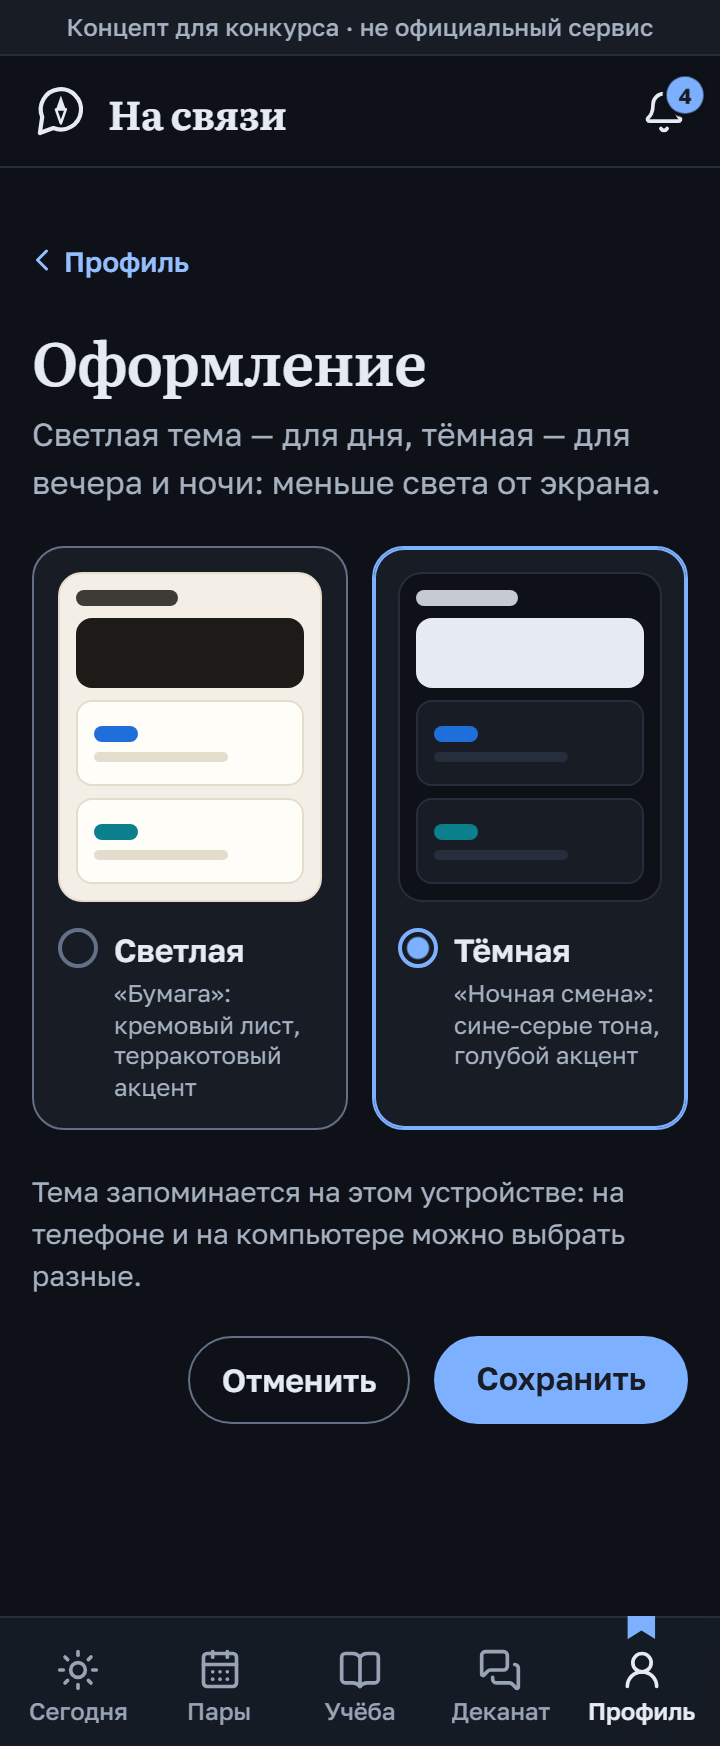
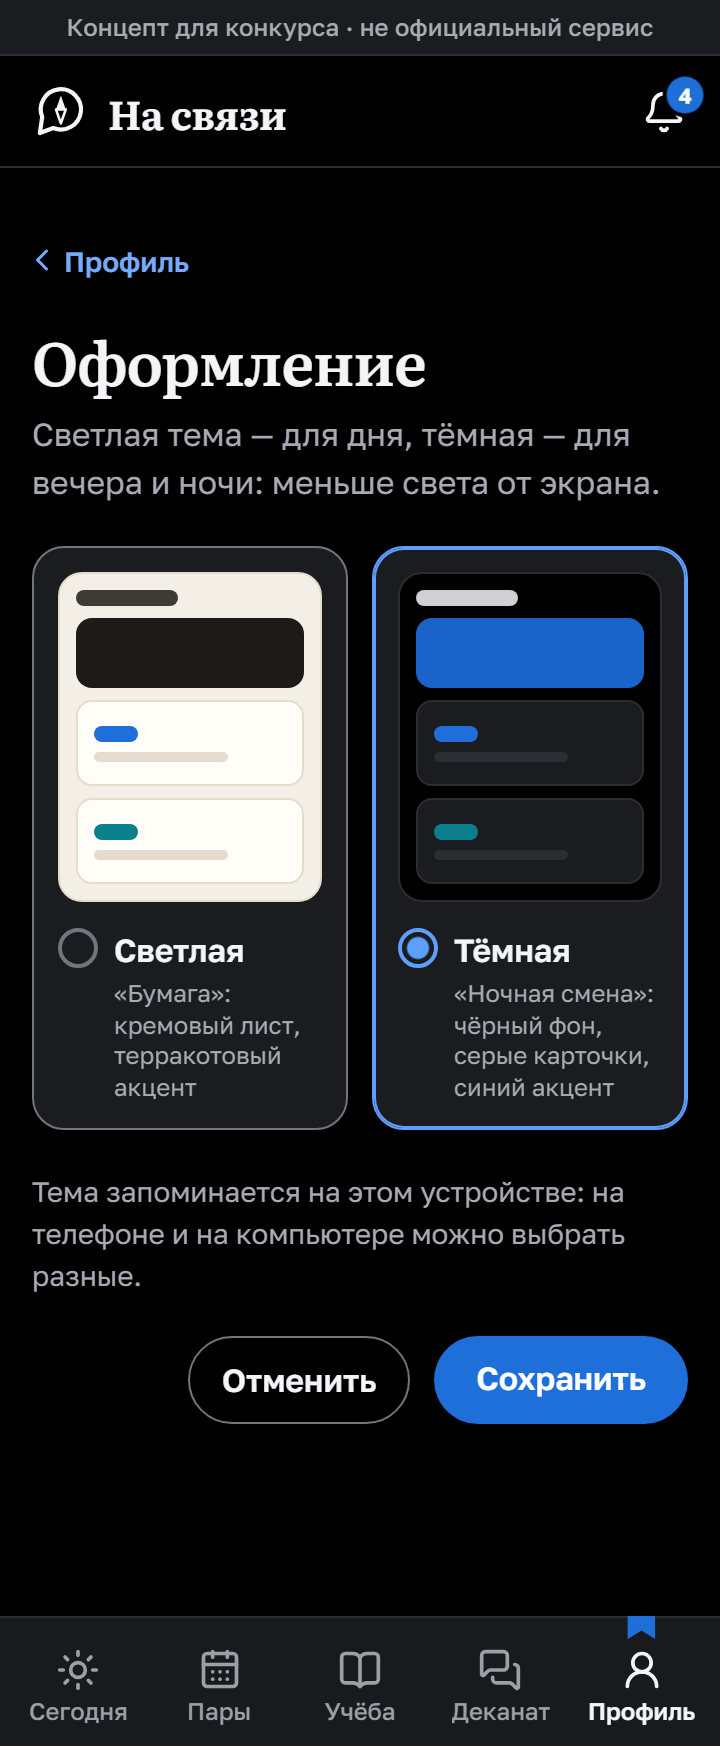
feat(theme): тёмная тема по примеру — чёрный фон, серые карточки, синие заливки; токены --plate и --accent-fill

diff --git a/src/ui/tokens.css b/src/ui/tokens.css
@@ -16,9 +16,18 @@
   /* Производные. --muted и --accent на --bg дают 4,18 и 4,29:1 — для текста на фоне страницы есть усиленные. */
   --muted-strong: #6B6358;   /* вторичный текст на --bg */
   --accent-strong: #9E4824;  /* ссылки и акцентный текст на --bg, текст бейджа «В работе» */
-  --ink-muted: #B8AE9F;      /* вторичный текст на --ink */
+  --ink-muted: #B8AE9F;      /* вторичный текст на плашке */
   --line-strong: #8C8172;    /* границы полей ввода: ≥ 3:1 к --bg и --paper */
   --focus: #2E5272;          /* кольцо фокуса — синие чернила */
+
+  /* Заливки. В светлой теме совпадают с чернилами и терракотой (tests/ui/contrast.test.ts это проверяет),
+     в тёмной — насыщенный синий с белым текстом. Отдельные имена нужны потому, что в тёмной теме
+     «чернила» светлые: плашка цвета --ink была бы белым пятном на чёрном. */
+  --plate: #1D1B17;          /* «важная» плашка, выбранный день, тост (= --ink) */
+  --on-plate: #FFFDF8;       /* текст на плашке (= --paper) */
+  --accent-fill: #B4552D;    /* заливка акцентом: основная кнопка, счётчик, закладка (= --accent) */
+  --on-accent: #FFFDF8;      /* текст на заливке акцентом (= --paper) */
+  --on-accent-2: #1D1B17;    /* текст кнопки на плашке (= --ink) */
 
   /* Статусы: приглушённые, в тёплой гамме; текст статуса читается и на своей подложке, и на --paper */
   --ok: #3D6B35;
@@ -114,8 +123,8 @@
   --fg-muted: var(--muted-strong);
   --fg-accent: var(--accent-strong);
   --ring: var(--focus);
-  --btn-bg: var(--accent);
-  --btn-fg: var(--paper);
+  --btn-bg: var(--accent-fill);
+  --btn-fg: var(--on-accent);
   --btn-border: var(--line-strong);
 }
 
@@ -131,70 +140,76 @@
   --fg-muted: var(--muted);
   --fg-accent: var(--accent);
   --ring: var(--focus);
-  --btn-bg: var(--accent);
-  --btn-fg: var(--paper);
+  --btn-bg: var(--accent-fill);
+  --btn-fg: var(--on-accent);
   --btn-border: var(--line-strong);
 }
 
 [data-surface="ink"] {
-  --surface: var(--ink);
-  --fg: var(--paper);
+  --surface: var(--plate);
+  --fg: var(--on-plate);
   --fg-muted: var(--ink-muted);
   --fg-accent: var(--accent-2);
   --ring: var(--accent-2);
   --btn-bg: var(--accent-2);
-  --btn-fg: var(--ink);
+  --btn-fg: var(--on-accent-2);
   --btn-border: rgba(255, 253, 248, 0.4);
 }
 
 /*
- * Тёмная тема «Ночная смена»: сине-серые поверхности, голубой акцент.
- * Имена токенов те же, значения — зеркальные по роли: --ink здесь светлый (текст и «важные» плашки),
- * --paper и --bg — тёмные. Поэтому компоненты не знают о теме, а tests/ui/contrast.test.ts
+ * Тёмная тема «Ночная смена»: чёрный фон, нейтрально-серые карточки, насыщенный синий как единственный цвет.
+ * Имена токенов те же: --ink здесь светлый (текст), --paper и --bg — тёмные, а всё, что залито цветом,
+ * берёт --plate и --accent-fill. Поэтому компоненты не знают о теме, а tests/ui/contrast.test.ts
  * проверяет те же пары «текст/фон» на этой палитре.
  * Включается атрибутом data-theme="dark" на <html> (src/app/layout.tsx читает его из cookie).
  */
 [data-theme="dark"] {
   color-scheme: dark;
 
-  --bg: #0E1218;        /* фон страницы */
-  --paper: #171C25;     /* карточки, панели навигации */
-  --line: #262E3B;      /* тонкие границы */
-  --ink: #E6EBF2;       /* основной текст; «важные» плашки — светлые на тёмном */
-  --muted: #98A4B5;     /* вторичный текст в карточке */
-  --accent: #7DB1FF;    /* голубой: ссылки в карточке, основная кнопка */
-  --accent-2: #1F5FBF;  /* синий: акцент на светлой плашке */
+  --bg: #000000;        /* фон страницы — чёрный */
+  --paper: #1B1C1F;     /* карточки, панели навигации */
+  --line: #2B2D32;      /* тонкие границы */
+  --ink: #F4F5F7;       /* основной текст */
+  --muted: #9C9FA8;     /* вторичный текст в карточке */
+  --accent: #5E9EFF;    /* синий для текста и контуров: ссылки, рамка выбранного */
+  --accent-2: #FFFFFF;  /* акцент на синей плашке: белый */
 
-  --muted-strong: #A6B1C2;
-  --accent-strong: #93BEFF;
-  --ink-muted: #4E596B;      /* вторичный текст на светлой плашке */
-  --line-strong: #647087;
-  --focus: #8AB8FF;
+  --muted-strong: #A8ABB4;
+  --accent-strong: #74ABFF;
+  --ink-muted: #DCE8FC;      /* вторичный текст на синей плашке */
+  --line-strong: #71757E;
+  --focus: #7FB2FF;
 
-  --ok: #7FD6A0;
-  --ok-tint: #15301F;
+  --plate: #1A63C8;          /* «важная» плашка, выбранный день, тост */
+  --on-plate: #FFFFFF;
+  --accent-fill: #1E6FD9;    /* основная кнопка, счётчик, закладка, полоса прогресса */
+  --on-accent: #FFFFFF;
+  --on-accent-2: #124A9C;    /* синий текст белой кнопки на плашке */
+
+  --ok: #6FD08F;
+  --ok-tint: #12301D;
   --warn: #F0C36A;
   --warn-tint: #33280F;
-  --danger: #FF9A8E;
-  --danger-tint: #3A1A17;
-  --info: #8FC1FF;
-  --info-tint: #142A45;
-  --accent-tint: #172B4A;
-  --neutral-tint: #212836;
+  --danger: #FF8F85;
+  --danger-tint: #3A1715;
+  --info: #7DB4FF;
+  --info-tint: #0F2742;
+  --accent-tint: #132C50;
+  --neutral-tint: #2A2C31;
 
-  /* Плашки типов те же; точки светлее, чтобы читались на тёмном листке дня, и темнее — на выбранном (светлом) */
-  --dot-lecture: #6AA8FF;
-  --dot-practice: #4FCBD6;
+  /* Плашки типов те же; точки светлее, чтобы читались на тёмном листке дня; на выбранном (синем) — почти белые */
+  --dot-lecture: #4C93FF;
+  --dot-practice: #35C3CF;
   --dot-lab: #E3B565;
-  --dot-lecture-inv: #1E6FD9;
-  --dot-practice-inv: #0B7F8C;
-  --dot-lab-inv: #85570A;
+  --dot-lecture-inv: #D7E6FF;
+  --dot-practice-inv: #7FE7EE;
+  --dot-lab-inv: #FFD27A;
 
-  --shadow-sheet: 0 1px 0 rgba(0, 0, 0, 0.25);
-  --shadow-float: 0 18px 40px -16px rgba(0, 0, 0, 0.7), 0 2px 6px rgba(0, 0, 0, 0.4);
+  --shadow-sheet: none;
+  --shadow-float: 0 18px 40px -16px rgba(0, 0, 0, 0.8), 0 2px 6px rgba(0, 0, 0, 0.5);
 }
 
-/* «Важная» плашка в тёмной теме светлая — рамка второстепенной кнопки на ней тёмная, а не светлая */
+/* Рамка второстепенной кнопки на синей плашке — белая полупрозрачная */
 [data-theme="dark"] [data-surface="ink"] {
-  --btn-border: rgba(14, 18, 24, 0.4);
+  --btn-border: rgba(255, 255, 255, 0.5);
 }

diff --git a/tests/ui/contrast.test.ts b/tests/ui/contrast.test.ts
@@ -44,15 +44,18 @@ const PAIRS: Pair[] = [
   ["muted", "paper", TEXT, "вторичный текст в карточке, подписи нижней навигации"],
   ["muted-strong", "bg", TEXT, "вторичный текст на фоне страницы (дата, подзаголовок)"],
   ["muted-strong", "paper", TEXT, "вторичный текст в карточке (запасной)"],
-  ["paper", "ink", TEXT, "текст в тёмной карточке «важное», тост"],
+  ["paper", "ink", TEXT, "ссылка «к содержимому», номер пройденного шага"],
   ["bg", "ink", TEXT, "пометка «Концепт для конкурса»"],
-  ["ink-muted", "ink", TEXT, "вторичный текст в тёмной карточке"],
+  ["on-plate", "plate", TEXT, "текст в «важной» плашке, тост, выбранный день"],
+  ["ink-muted", "plate", TEXT, "вторичный текст в «важной» плашке"],
   ["accent", "paper", TEXT, "надзаголовок и ссылка в карточке"],
   ["accent-strong", "bg", TEXT, "ссылка на фоне страницы"],
   ["accent-strong", "paper", TEXT, "ссылка в карточке (запасной)"],
-  ["paper", "accent", TEXT, "основная кнопка, счётчик на колокольчике"],
-  ["accent-2", "ink", TEXT, "надзаголовок и ссылка в тёмной карточке"],
-  ["ink", "accent-2", TEXT, "основная кнопка в тёмной карточке"],
+  ["on-accent", "accent-fill", TEXT, "основная кнопка, счётчик на колокольчике"],
+  ["accent-fill", "paper", NON_TEXT, "заливка без текста в карточке: полоса прогресса, закладка раздела"],
+  ["accent-fill", "bg", NON_TEXT, "заливка без текста на фоне страницы"],
+  ["accent-2", "plate", TEXT, "надзаголовок и ссылка в «важной» плашке"],
+  ["on-accent-2", "accent-2", TEXT, "основная кнопка в «важной» плашке"],
   ["ok", "ok-tint", TEXT, "бейдж «Готово»"],
   ["warn", "warn-tint", TEXT, "бейдж «Нужно уточнение»"],
   ["danger", "danger-tint", TEXT, "бейдж «Отклонено»"],
@@ -70,13 +73,13 @@ const PAIRS: Pair[] = [
   ["dot-lecture", "paper", NON_TEXT, "точка лекции под днём недели"],
   ["dot-practice", "paper", NON_TEXT, "точка практики под днём недели"],
   ["dot-lab", "paper", NON_TEXT, "точка лабораторной под днём недели"],
-  ["dot-lecture-inv", "ink", NON_TEXT, "точка лекции на выбранном дне"],
-  ["dot-practice-inv", "ink", NON_TEXT, "точка практики на выбранном дне"],
-  ["dot-lab-inv", "ink", NON_TEXT, "точка лабораторной на выбранном дне"],
+  ["dot-lecture-inv", "plate", NON_TEXT, "точка лекции на выбранном дне"],
+  ["dot-practice-inv", "plate", NON_TEXT, "точка практики на выбранном дне"],
+  ["dot-lab-inv", "plate", NON_TEXT, "точка лабораторной на выбранном дне"],
   ["muted-strong", "paper", TEXT, "номер пары и подсказки на подкрашенной подложке"],
   ["focus", "bg", NON_TEXT, "кольцо фокуса на фоне страницы"],
   ["focus", "paper", NON_TEXT, "кольцо фокуса в карточке"],
-  ["accent-2", "ink", NON_TEXT, "кольцо фокуса в тёмной карточке"],
+  ["accent-2", "plate", NON_TEXT, "кольцо фокуса в «важной» плашке"],
   ["line-strong", "paper", NON_TEXT, "граница поля ввода в карточке"],
   ["line-strong", "bg", NON_TEXT, "граница поля ввода на фоне страницы"],
 ];
@@ -87,6 +90,14 @@ describe("палитра «Бумага»", () => {
       bg: "#F4EFE6", paper: "#FFFDF8", line: "#E4DCCD", ink: "#1D1B17",
       muted: "#7A7166", accent: "#B4552D", "accent-2": "#E2774A",
     });
+  });
+
+  it("в светлой теме заливки — те же чернила и терракота, что были до появления тёмной", () => {
+    expect(t.plate).toBe(t.ink);
+    expect(t["on-plate"]).toBe(t.paper);
+    expect(t["accent-fill"]).toBe(t.accent);
+    expect(t["on-accent"]).toBe(t.paper);
+    expect(t["on-accent-2"]).toBe(t.ink);
   });
 
   it.each(PAIRS)("%s на %s ≥ %d:1 (%s)", (fg, bg, min) => {
@@ -104,7 +115,7 @@ describe("палитра «Бумага»", () => {
   it("тёмная тема задаёт свои значения всем цветам палитры, а не наследует светлые", () => {
     const palette = ["bg", "paper", "line", "ink", "muted", "accent", "accent-2", "muted-strong", "accent-strong",
       "ink-muted", "line-strong", "focus", "ok", "ok-tint", "warn", "warn-tint", "danger", "danger-tint",
-      "info", "info-tint", "accent-tint", "neutral-tint"];
+      "info", "info-tint", "accent-tint", "neutral-tint", "plate", "on-plate", "accent-fill", "on-accent", "on-accent-2"];
     for (const name of palette) expect(dark[name], `--${name} не переопределён в тёмной теме`).not.toBe(t[name]);
   });
 
@@ -114,7 +125,8 @@ describe("палитра «Бумага»", () => {
   });
 
   it("таблица контраста для отчёта", () => {
-    const rows = PAIRS.map(([fg, bg, min, use]) => `| --${fg} | --${bg} | ${contrast(t[fg], t[bg]).toFixed(2)} | ${min} | ${use} |`);
+    const rows = PAIRS.map(([fg, bg, min, use]) =>
+      `| --${fg} | --${bg} | ${contrast(t[fg], t[bg]).toFixed(2)} | ${contrast(dark[fg], dark[bg]).toFixed(2)} | ${min} | ${use} |`);
     if (process.env.PRINT_CONTRAST) console.log(rows.join("\n"));
     expect(rows).toHaveLength(PAIRS.length);
   });

diff --git a/src/app/(student)/schedule/schedule.module.css b/src/app/(student)/schedule/schedule.module.css
@@ -133,7 +133,7 @@
   width: 7px;
   height: 7px;
   border-radius: 50%;
-  background: var(--accent);
+  background: var(--accent-fill);
   box-shadow: 0 0 0 2px var(--paper);
 }
 
@@ -169,20 +169,20 @@
   bottom: -1px;
   height: 3px;
   border-radius: 3px 3px 0 0;
-  background: var(--accent);
+  background: var(--accent-fill);
 }
 
 .dayLink[aria-current="page"] {
-  border-color: var(--ink);
-  background: var(--ink);
-  color: var(--paper);
+  border-color: var(--plate);
+  background: var(--plate);
+  color: var(--on-plate);
 }
 
 .dayLink[aria-current="page"] .dayShort {
   color: var(--ink-muted);
 }
 
-/* На тёмном листке выбранного дня точки светлее, чтобы не терялись */
+/* На залитом листке выбранного дня точки светлее, чтобы не терялись */
 .dayLink[aria-current="page"] .dot[data-type="lecture"] {
   background: var(--dot-lecture-inv);
 }
@@ -197,7 +197,7 @@
 
 .dayLink[aria-current="page"] .changedMark {
   background: var(--accent-2);
-  box-shadow: 0 0 0 2px var(--ink);
+  box-shadow: 0 0 0 2px var(--plate);
 }
 
 .dayLink[aria-current="page"][data-today]::after {

diff --git a/src/lib/theme.ts b/src/lib/theme.ts
@@ -4,7 +4,7 @@
 
 export const THEMES = [
   { code: "light", label: "Светлая", hint: "«Бумага»: кремовый лист, терракотовый акцент" },
-  { code: "dark", label: "Тёмная", hint: "«Ночная смена»: сине-серые тона, голубой акцент" },
+  { code: "dark", label: "Тёмная", hint: "«Ночная смена»: чёрный фон, серые карточки, синий акцент" },
 ] as const;
 export type Theme = (typeof THEMES)[number]["code"];
 
@@ -12,7 +12,7 @@ export const THEME_COOKIE = "ns_theme";
 export const DEFAULT_THEME: Theme = "light";
 
 /** Цвет системной панели браузера под тему (совпадает с --bg в src/ui/tokens.css). */
-export const THEME_COLOR: Record<Theme, string> = { light: "#F4EFE6", dark: "#0E1218" };
+export const THEME_COLOR: Record<Theme, string> = { light: "#F4EFE6", dark: "#000000" };
 
 /** Тема из значения cookie или формы: всё незнакомое — светлая. */
 export function parseTheme(value: unknown): Theme {

diff --git a/e2e/theme.spec.ts b/e2e/theme.spec.ts
@@ -59,8 +59,8 @@ test("студент включает тёмную тему: она держит
   await page.waitForURL("**/profile?saved=theme");
   await expect(page.getByRole("status").filter({ hasText: "Тема оформления сохранена" })).toBeVisible();
   expect(await themeOf(page)).toBe("dark");
-  expect(await bgOf(page)).toBe("rgb(14, 18, 24)");
-  await expect(page.locator('meta[name="theme-color"]')).toHaveAttribute("content", "#0E1218");
+  expect(await bgOf(page)).toBe("rgb(0, 0, 0)");
+  await expect(page.locator('meta[name="theme-color"]')).toHaveAttribute("content", "#000000");
   await expect(settings(page).getByRole("link", { name: /Оформление/ })).toContainText("тёмная");
   await shoot(page, "profile-dark", widthOf(page), "08");
 

diff --git a/src/ui/profile/StressEditor.module.css b/src/ui/profile/StressEditor.module.css
@@ -100,9 +100,9 @@
 
 /* Выбранная ударная гласная */
 .vowel input:checked + .tile {
-  border-color: var(--ink);
-  background: var(--ink);
-  color: var(--paper);
+  border-color: var(--plate);
+  background: var(--plate);
+  color: var(--on-plate);
 }
 
 .vowel input:focus-visible + .tile {

diff --git a/src/app/(student)/today.module.css b/src/app/(student)/today.module.css
@@ -201,8 +201,8 @@ a.deadline .deadlineTitle {
   gap: 6px;
   padding: 5px 12px 5px 10px;
   border-radius: var(--radius-pill);
-  background: var(--ink);
-  color: var(--paper);
+  background: var(--plate);
+  color: var(--on-plate);
   font-size: var(--text-sm);
   font-weight: 700;
   letter-spacing: 0.01em;

diff --git a/src/ui/SwipeNav.module.css b/src/ui/SwipeNav.module.css
@@ -63,9 +63,9 @@
 
 /* Порог пройден: «отпусти — и перейдёшь» */
 .hint[data-armed] {
-  background: var(--ink);
-  border-color: var(--ink);
-  color: var(--paper);
+  background: var(--plate);
+  border-color: var(--plate);
+  color: var(--on-plate);
 }
 
 .hintIcon {

diff --git a/src/ui/Bell.module.css b/src/ui/Bell.module.css
@@ -60,8 +60,8 @@
   height: 19px;
   padding: 0 5px;
   border-radius: var(--radius-pill);
-  background: var(--accent);
-  color: var(--paper);
+  background: var(--accent-fill);
+  color: var(--on-accent);
   box-shadow: 0 0 0 2px var(--surface);
   font-family: var(--font-ui);
   font-size: 11px;

diff --git a/src/app/(student)/notifications/notifications.module.css b/src/app/(student)/notifications/notifications.module.css
@@ -99,7 +99,7 @@
   height: 10px;
   margin-top: 6px;
   border-radius: 50%;
-  background: var(--accent);
+  background: var(--accent-fill);
 }
 
 /* Непрочитанное: жирный заголовок, иконка в терракотовом круге, точка справа */

diff --git a/src/ui/profile/ThemeForm.module.css b/src/ui/profile/ThemeForm.module.css
@@ -55,6 +55,7 @@
   --paper: #FFFDF8;
   --line: #E4DCCD;
   --ink: #1D1B17;
+  --plate: #1D1B17;
   --accent: #B4552D;
 }
 
@@ -69,7 +70,7 @@
 .sampleHero {
   flex: 1.2;
   border-radius: 8px;
-  background: var(--ink);
+  background: var(--plate);
 }
 
 .sampleCard {

diff --git a/src/app/(student)/dekanat/new/new.module.css b/src/app/(student)/dekanat/new/new.module.css
@@ -66,8 +66,8 @@
 }
 
 .step[data-state="current"] .stepNum {
-  background: var(--accent);
-  color: var(--paper);
+  background: var(--accent-fill);
+  color: var(--on-accent);
 }
 
 /* Текст, перенесённый из «Спроси деканат» */
